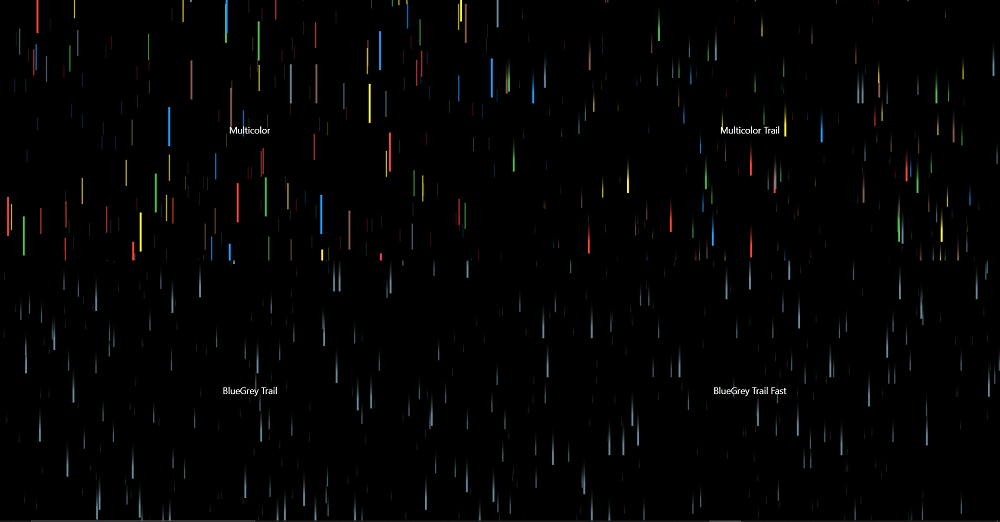
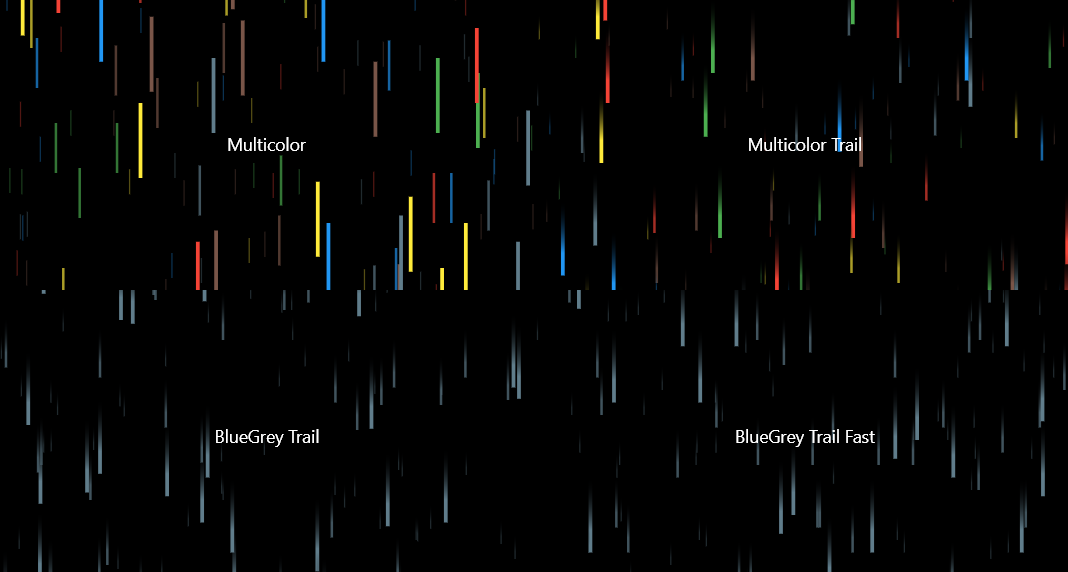
Updated screenshot

diff --git a/example/lib/main.dart b/example/lib/main.dart
@@ -35,6 +35,7 @@ class _MyHomePageState extends State<MyHomePage> {
               children: [
                 Expanded(
                   child: ParallaxRain(
+                    numberOfDrops: 100,
                     dropColors: [
                       Colors.red,
                       Colors.green,
@@ -50,6 +51,7 @@ class _MyHomePageState extends State<MyHomePage> {
                 ),
                 Expanded(
                   child: ParallaxRain(
+                    numberOfDrops: 100,
                     dropColors: [
                       Colors.red,
                       Colors.green,
@@ -72,6 +74,7 @@ class _MyHomePageState extends State<MyHomePage> {
               children: [
                 Expanded(
                   child: ParallaxRain(
+                    numberOfDrops: 100,
                     dropColors: [Colors.blueGrey],
                     trail: true,
                     child: Text(
@@ -81,6 +84,7 @@ class _MyHomePageState extends State<MyHomePage> {
                 ),
                 Expanded(
                   child: ParallaxRain(
+                    numberOfDrops: 100,
                     dropColors: [Colors.blueGrey],
                     trail: true,
                     dropFallSpeed: 5,
